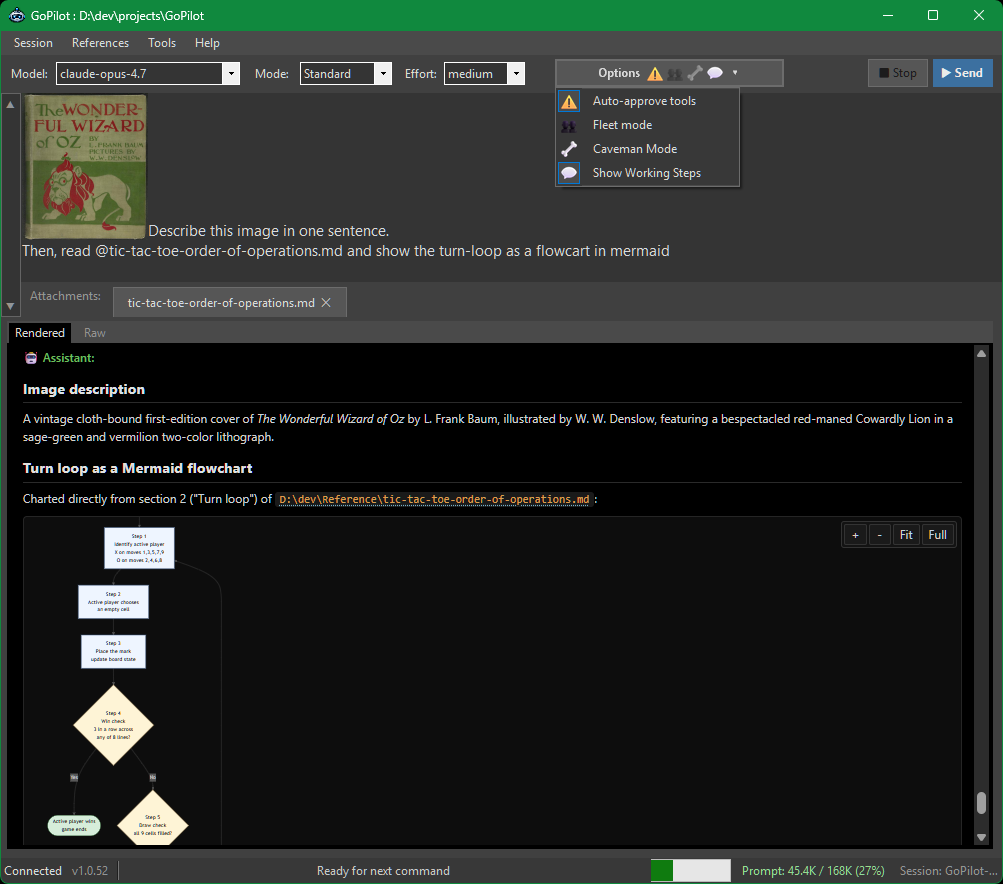
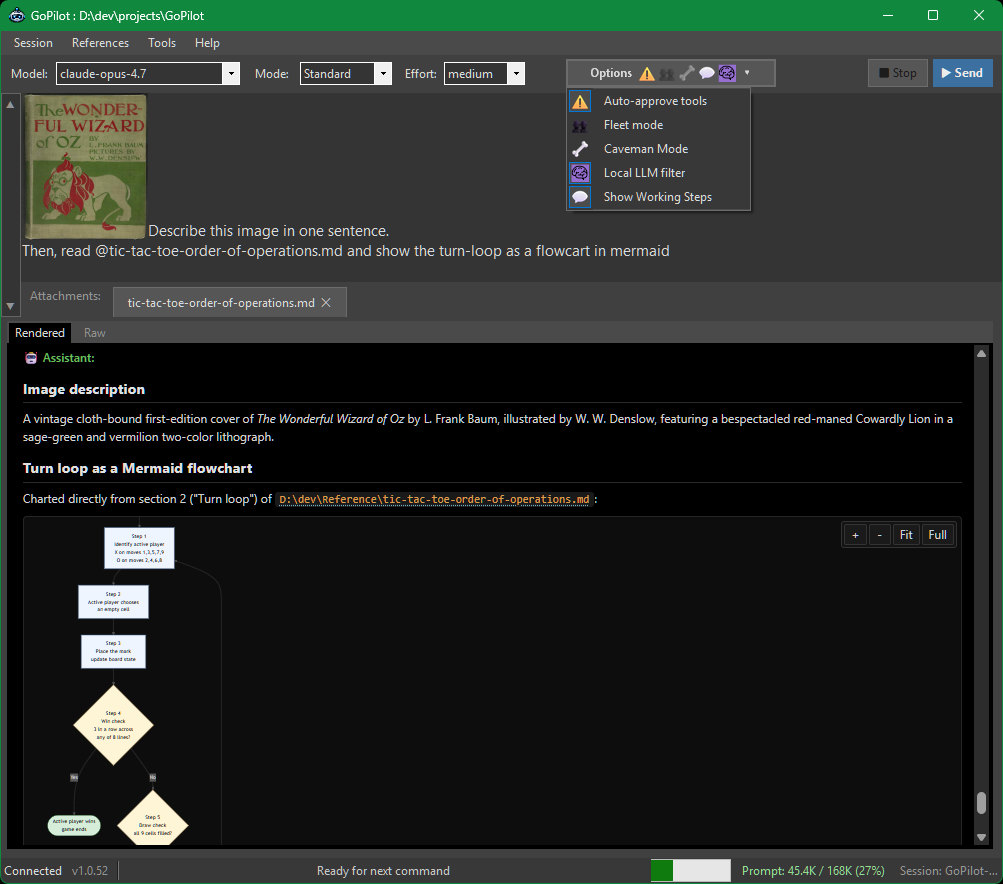
readme update

Changed region(s): [[0.5563, 0.0611, 0.7418, 0.2443]]

diff --git a/README.md b/README.md
@@ -20,7 +20,7 @@ A Windows desktop GUI for the [GitHub Copilot SDK](libs/copilot-sdk). GoPilot wr
 - Plan, Autopilot, and Fleet modes alongside Standard chat.
 - Tool permission dialog with Allow / Approve Similar / Deny, plus an Auto-approve toggle.
 - Caveman Mode: optional client-side prompt compression to cut tokens.
-- Local LLM filter: optional offline codellama pre-pass that minimizes prompts and answers simple requests locally to save cloud tokens.
+- **NEW** Local LLM filter: optional offline codellama pre-pass that minimizes prompts and answers simple requests locally to save cloud tokens.
 - All option toggles show as badges on the Options button in a fixed order; enabled options appear in full colour and disabled options are greyed out.
 - Sending while a turn is in flight interrupts it instead of queueing.
 - Dark theme throughout.
@@ -28,14 +28,14 @@ A Windows desktop GUI for the [GitHub Copilot SDK](libs/copilot-sdk). GoPilot wr
 
 ## Why this exists
 
-I find it difficult to work in a terminal, so I built a Windows app that makes it easier to edit prompts, save and restore session state, and launch tools at the workspace root. Think of it as an alternate front-end for Copilot CLI aimed at people who prefer standard Windows forms and editors.
-
+I find it difficult to work in a terminal, so I built a Windows app that makes it easier to edit prompts, save and restore session state, and launch tools at the workspace root. Think of it as an alternate front-end for Copilot CLI aimed at people who prefer standard Windows forms and editors. New features added regularly as I think of them :)
 
 ## Requirements
 
-- Windows 10 or later
+- Windows 11 or later
 - [.NET 8.0 Runtime](https://dotnet.microsoft.com/download/dotnet/8.0)
 - A GitHub account with Copilot access (authenticated via `gh` CLI or environment)
+- Remember: You'll need to install the Copilot CLI and run it at least once to login.
 
 ## Getting Started
 